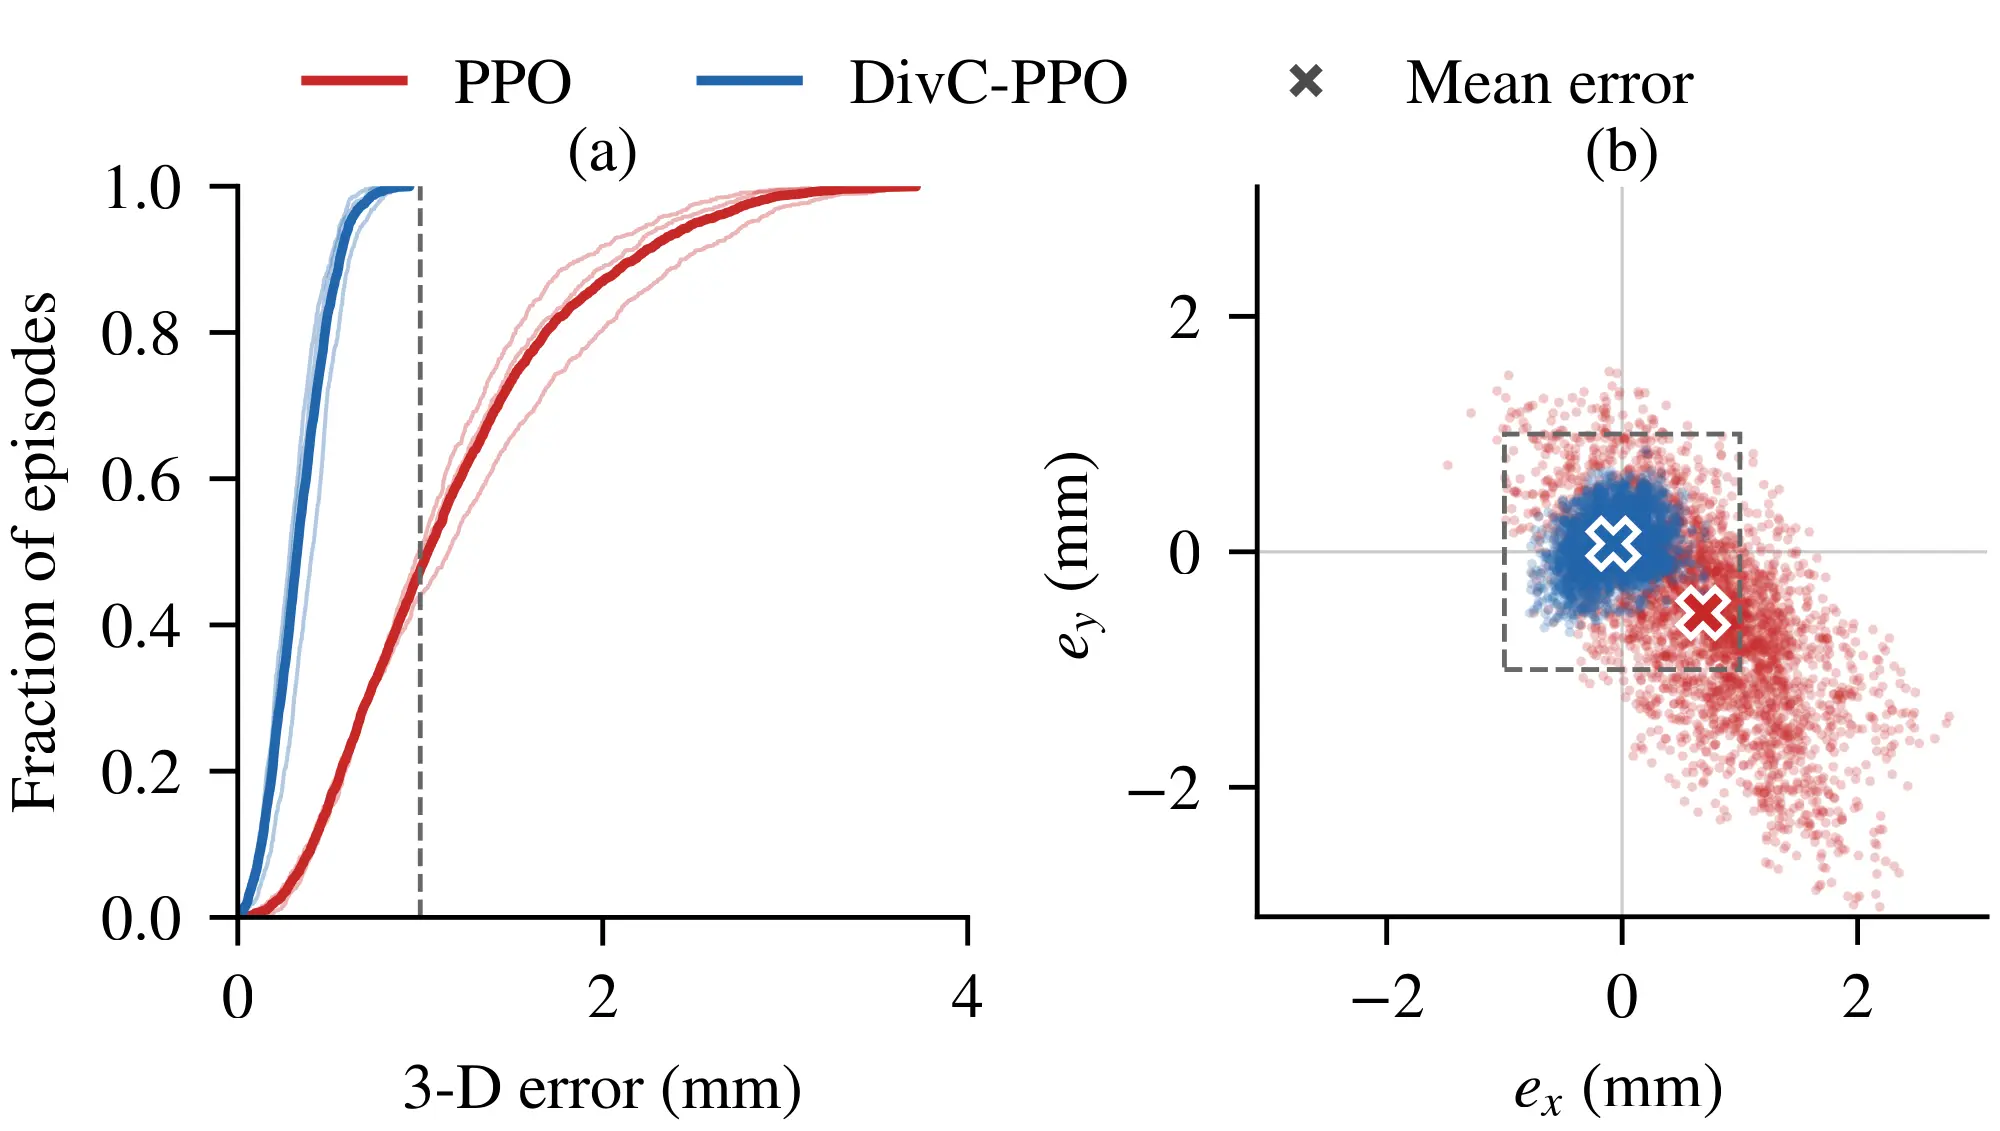
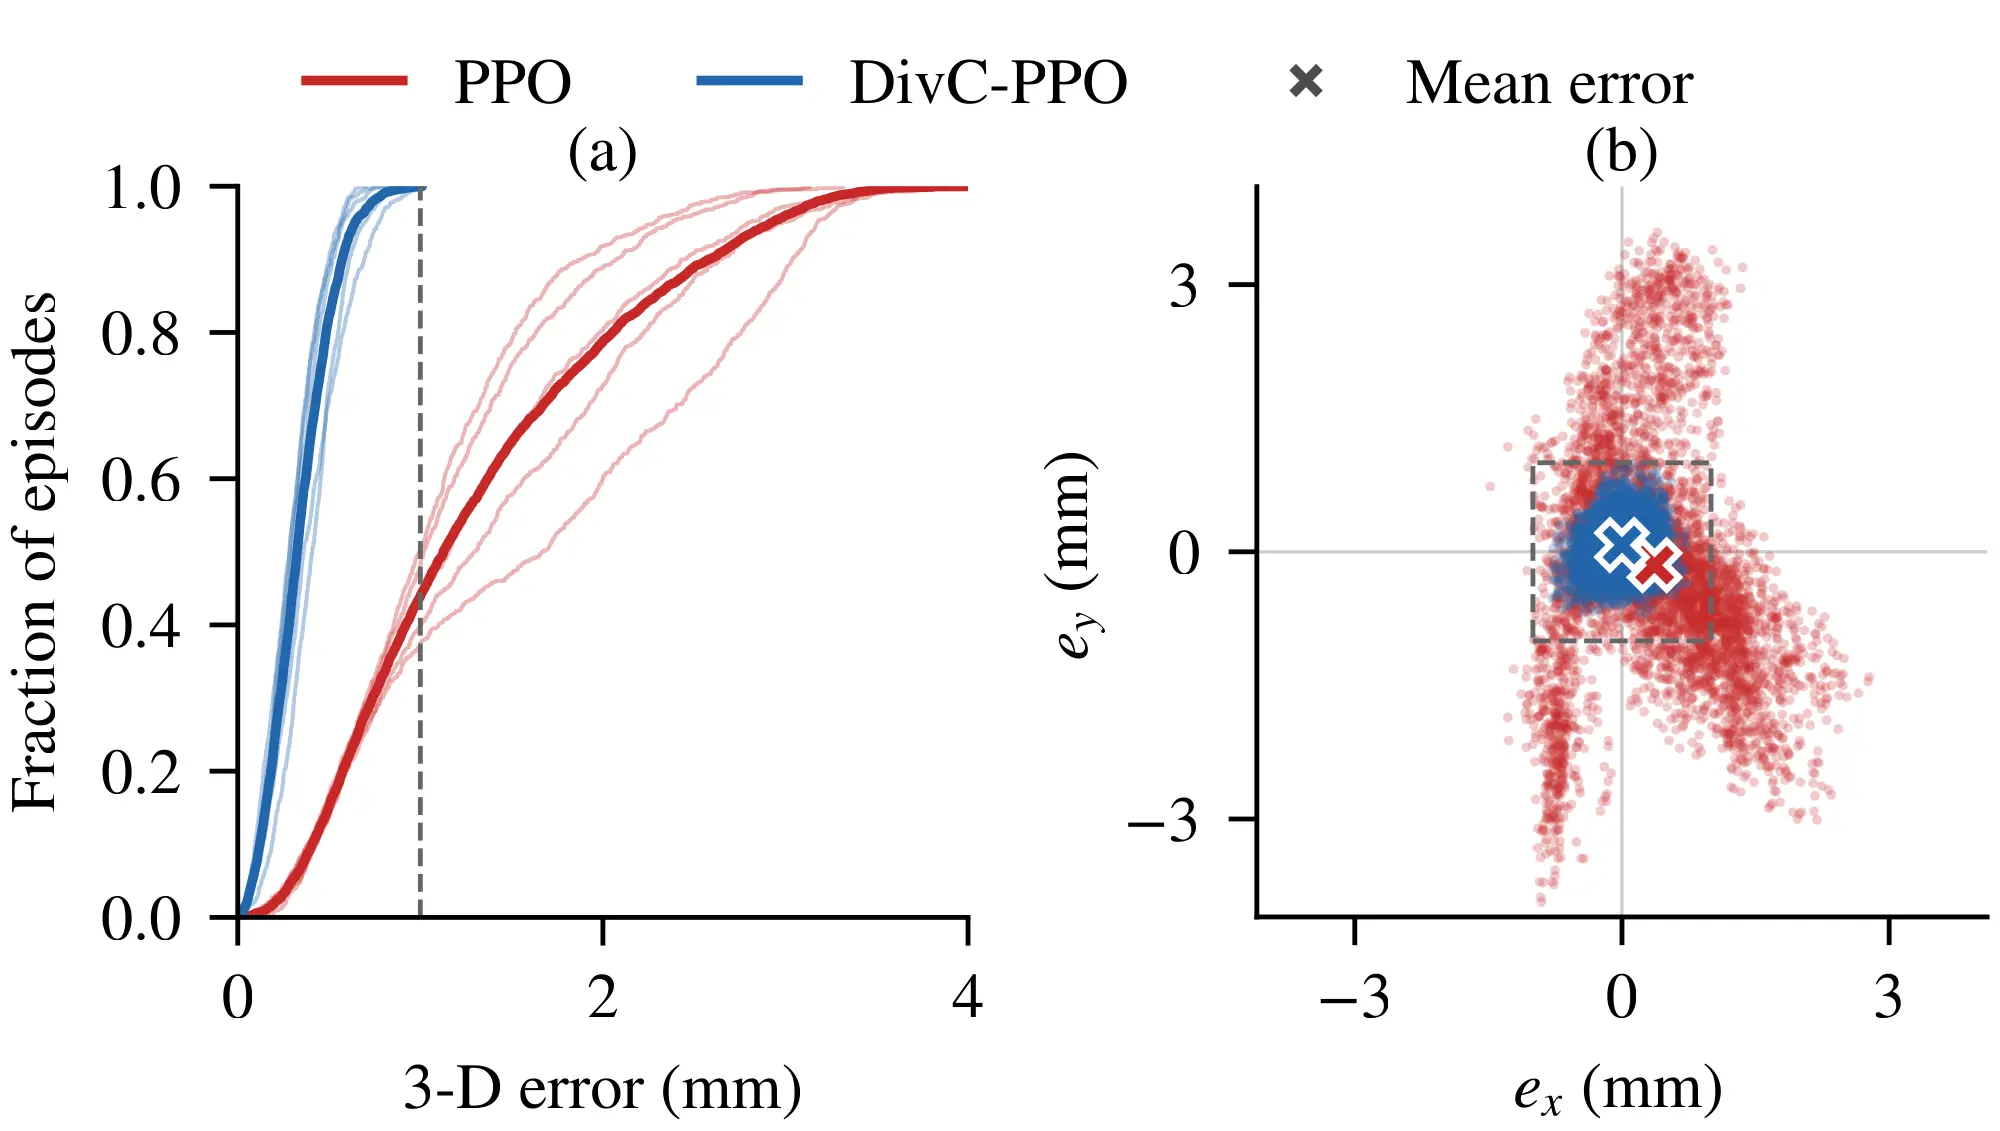
Update results to five seeds
Add seeds 48 and 50 to the abstract, the nominal table, the Fig. 3
image and the three perturbation captions.

diff --git a/index.html b/index.html
@@ -67,7 +67,7 @@
         <h2 class="title is-3">Abstract</h2>
         <div class="content has-text-justified">
           <p>Vision-guided positioning requires converting visual errors into precise Cartesian corrections. Standard PPO assigns one advantage and one probability ratio to the whole action, so the contributions of the X, Y, and Z axes can be mixed during policy optimization. This study presents DivC-PPO, a Cartesian-aligned credit assignment method for PPO that gives each axis its own reward stream, advantage, and clipped probability ratio. The actor and critic use only wrist-camera detection features and proprioception, while training rewards are computed from the simulator state.</p>
-          <p>On a simulated UR10e positioning task with objects placed within &plusmn;4&nbsp;cm along X and Y, DivC-PPO reaches a 3-D error of 0.337&nbsp;mm and 100% stable success over three seeds. PPO with the same critic, reward terms, and training budget achieves 1.167&nbsp;mm and 56.64%. Scrambling the axis mapping prevents learning, showing that the gain depends on the correct correspondence. Replacing the per-axis ratios with a shared ratio raises the error to 0.647&nbsp;mm. The advantage holds under small detection noise and wider target placement but disappears under larger noise and action-scale mismatch.</p>
+          <p>On a simulated UR10e positioning task with objects placed within &plusmn;4&nbsp;cm along X and Y, DivC-PPO reaches a 3-D error of 0.339&nbsp;mm and 99.98% stable success over five seeds. PPO with the same critic, reward terms, and training budget achieves 1.315&nbsp;mm and 51.13%. Scrambling the axis mapping prevents learning, showing that the gain depends on the correct correspondence. Replacing the per-axis ratios with a shared ratio raises the error to 0.647&nbsp;mm. The advantage holds under small detection noise and wider target placement but disappears under larger noise and action-scale mismatch.</p>
         </div>
       </div>
     </div>
@@ -85,17 +85,17 @@
 <section class="section">
   <div class="container is-max-widescreen">
     <h2 class="title is-3 has-text-centered">Results</h2>
-    <p class="has-text-centered lead">Nominal evaluation with deterministic inference, 1,024 episodes per seed, mean &plusmn; variation over three seeds.</p>
+    <p class="has-text-centered lead">Nominal evaluation with deterministic inference, 1,024 episodes per seed, mean &plusmn; variation over five seeds.</p>
 
     <div class="result-row">
       <div>
         <table class="table is-fullwidth result-table">
           <thead><tr><th>Metric</th><th>PPO</th><th>DivC-PPO</th></tr></thead>
           <tbody>
-            <tr><td>3-D error (mm)</td><td>1.167 &plusmn; 0.103</td><td class="ours">0.337 &plusmn; 0.059</td></tr>
-            <tr><td>Stable success (%)</td><td>56.64 &plusmn; 5.53</td><td class="ours">100.00 &plusmn; 0.00</td></tr>
-            <tr><td>Near-target failure (%)</td><td>41.15 &plusmn; 5.22</td><td class="ours">0.00 &plusmn; 0.00</td></tr>
-            <tr><td>Time to stable success (s)</td><td>2.14 &plusmn; 0.06</td><td class="ours">1.55 &plusmn; 0.03</td></tr>
+            <tr><td>3-D error (mm)</td><td>1.315 &plusmn; 0.230</td><td class="ours">0.339 &plusmn; 0.056</td></tr>
+            <tr><td>Stable success (%)</td><td>51.13 &plusmn; 8.76</td><td class="ours">99.98 &plusmn; 0.04</td></tr>
+            <tr><td>Near-target failure (%)</td><td>43.63 &plusmn; 6.74</td><td class="ours">0.02 &plusmn; 0.04</td></tr>
+            <tr><td>Time to stable success (s)</td><td>2.17 &plusmn; 0.20</td><td class="ours">1.57 &plusmn; 0.03</td></tr>
           </tbody>
         </table>
         <p class="caption left">Stable success: the end-effector stays inside the 1&nbsp;mm target box for 20 consecutive control steps (&asymp;0.67&nbsp;s). Near-target failure: the episode enters the 2&nbsp;mm per-axis box but never reaches stable success.</p>
@@ -140,9 +140,9 @@
         <li><a data-exp="scale">Action scale 3.0&nbsp;cm</a></li>
       </ul>
     </div>
-    <p class="has-text-centered lead exp-text" data-exp="ood14">Object placed 14&nbsp;cm from the nominal point, outside the &plusmn;4&nbsp;cm training range. Over three seeds: DivC-PPO 1.195&nbsp;mm and 46.0% stable success, PPO 12.717&nbsp;mm and 3.0%. This episode: DivC-PPO 1.46&nbsp;mm, PPO 5.45&nbsp;mm.</p>
-    <p class="has-text-centered lead exp-text" data-exp="noise" hidden>Gaussian noise with &sigma;&nbsp;=&nbsp;0.32&nbsp;px on the bounding-box center, the largest level at which DivC-PPO keeps its advantage. Over three seeds: DivC-PPO 0.622&nbsp;mm and 85.3% stable success, PPO 1.034&nbsp;mm and 56.0%. This episode: both reach stable success, DivC-PPO after 1.50&nbsp;s at 0.52&nbsp;mm and PPO after 2.80&nbsp;s at 1.12&nbsp;mm.</p>
-    <p class="has-text-centered lead exp-text" data-exp="scale" hidden>Action scale of 3.0&nbsp;cm instead of the 1.5&nbsp;cm used in training, where DivC-PPO fails. Over three seeds: DivC-PPO 9.521&nbsp;mm and 0% stable success, PPO 2.248&nbsp;mm and 46.0%. This episode: DivC-PPO 8.38&nbsp;mm, PPO 6.11&nbsp;mm.</p>
+    <p class="has-text-centered lead exp-text" data-exp="ood14">Object placed 14&nbsp;cm from the nominal point, outside the &plusmn;4&nbsp;cm training range. Over five seeds: DivC-PPO 1.530&nbsp;mm and 46.2% stable success, PPO 14.185&nbsp;mm and 2.0%. This episode: DivC-PPO 1.46&nbsp;mm, PPO 5.45&nbsp;mm.</p>
+    <p class="has-text-centered lead exp-text" data-exp="noise" hidden>Gaussian noise with &sigma;&nbsp;=&nbsp;0.32&nbsp;px on the bounding-box center, the largest level at which DivC-PPO keeps its advantage. Over five seeds: DivC-PPO 0.613&nbsp;mm and 85.8% stable success, PPO 1.284&nbsp;mm and 47.4%. This episode: both reach stable success, DivC-PPO after 1.50&nbsp;s at 0.52&nbsp;mm and PPO after 2.80&nbsp;s at 1.12&nbsp;mm.</p>
+    <p class="has-text-centered lead exp-text" data-exp="scale" hidden>Action scale of 3.0&nbsp;cm instead of the 1.5&nbsp;cm used in training, where DivC-PPO fails. Over five seeds: DivC-PPO 9.105&nbsp;mm and 0.4% stable success, PPO 2.036&nbsp;mm and 41.0%. This episode: DivC-PPO 8.38&nbsp;mm, PPO 6.11&nbsp;mm.</p>
     <div class="views">
       <div class="wide">
         <p class="view-title">Wide view</p>

diff --git a/README.md b/README.md
@@ -18,7 +18,7 @@ The page is static HTML and CSS. It has no build step and no JavaScript framewor
 | Front and side views of the teaser episode | Isaac Sim rollout, seed 42 |
 | Deployment perturbations (14 cm placement, detection noise, action scale) | Paper Table V and Isaac Sim rollouts, seed 42 |
 
-The text and three-seed numbers come from the paper. The per-episode numbers come from the logs of the rendered rollouts. In every comparison video, both policies start from the same object placement.
+The text and five-seed numbers come from the paper. The per-episode numbers come from the logs of the rendered rollouts. In every comparison video, both policies start from the same object placement.
 
 ## Repository layout
 
